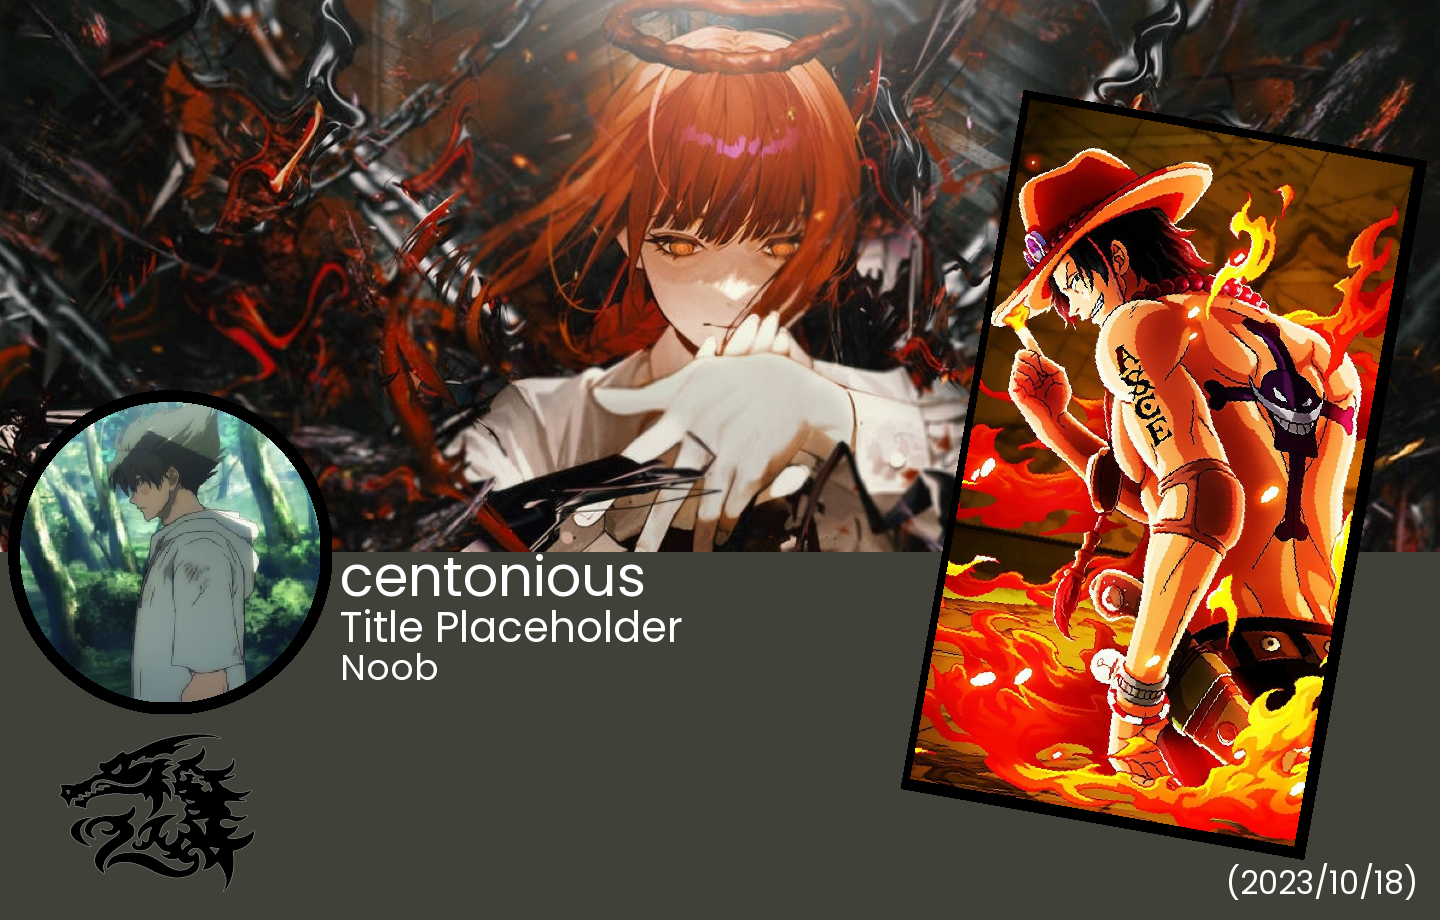
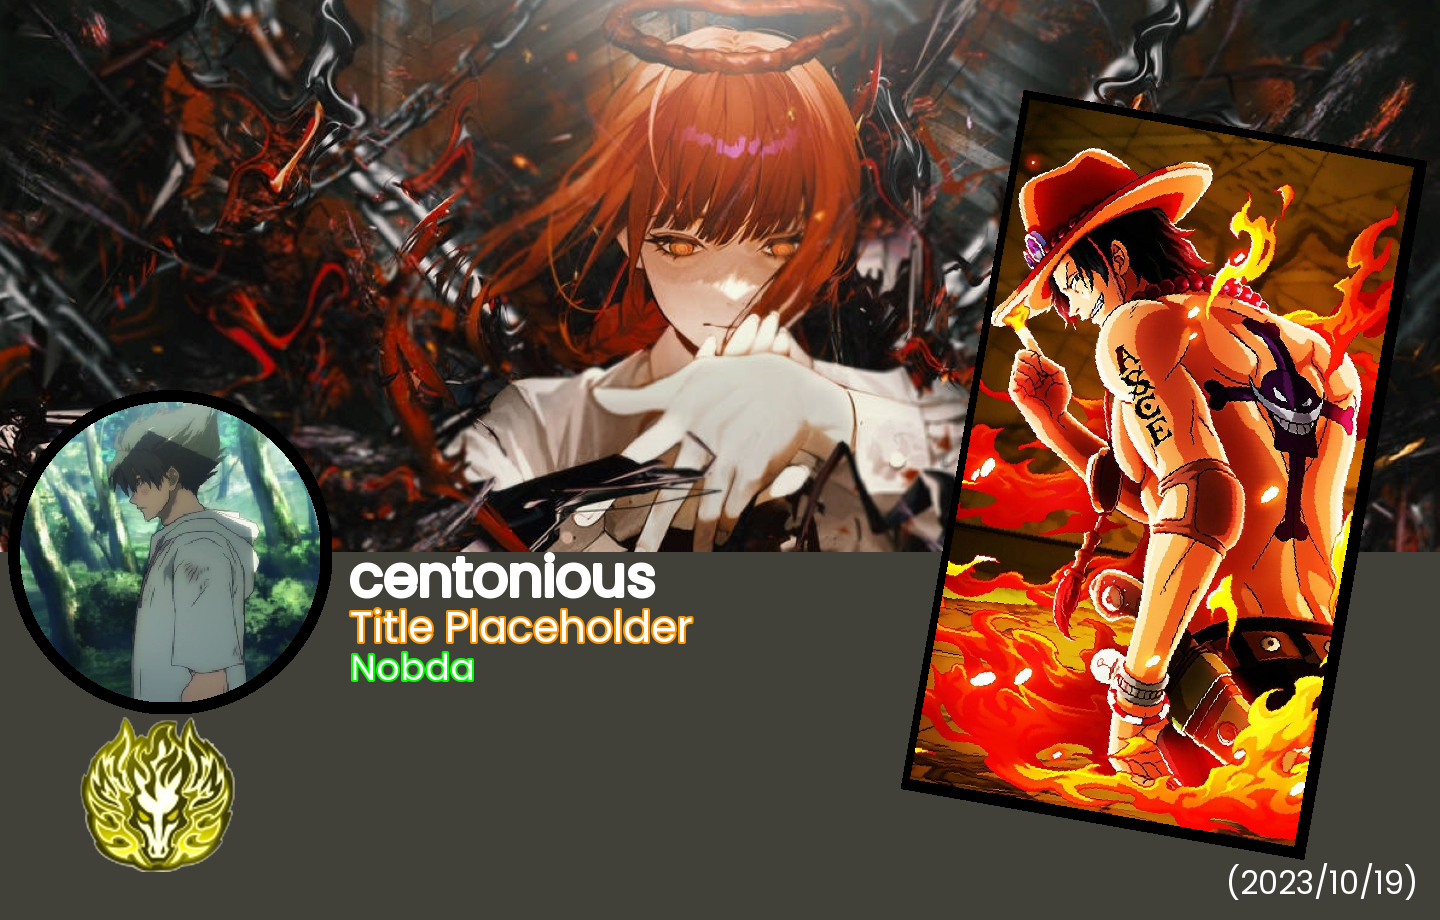
indianEFFECTfortheindian :)

Changed region(s): [[0.2188, 0.6087, 0.5, 0.7609], [0.0312, 0.7609, 0.1875, 0.9739]]

diff --git a/Convictions/profile.py b/Convictions/profile.py
@@ -55,8 +55,19 @@ def create_profile_image(avatar_url, username, title, rank, default_background_p
 
   dragon_shadow_path = 'Assets/dragon_shadow.png'
   dragon_shadow = Image.open(dragon_shadow_path)
-  dragon_shadow = dragon_shadow.resize((avatar_size[0], 200))
-  dragon_shadow_x = avatar_x
+  # Make the dragon shadow image smaller
+  new_height = int(200 * 0.8)  # Reduce the height by 20%
+  new_width = int(dragon_shadow.width * (new_height / dragon_shadow.height))
+  dragon_shadow = dragon_shadow.resize((new_width, new_height))
+ 
+
+  
+
+
+  
+  # Shift the dragon shadow image slightly to the right
+  dragon_shadow_x = avatar_x + int(avatar_size[0] * 0.20)  # Adjusted for a small right shift
+
   dragon_shadow_y = avatar_y + avatar_size[1] + 10
   profile_image.paste(dragon_shadow, (dragon_shadow_x, dragon_shadow_y), dragon_shadow)
 
@@ -89,12 +100,34 @@ def create_profile_image(avatar_url, username, title, rank, default_background_p
   text_color = (255, 255, 255)
   outline_color = (0, 0, 0)
 
-  username_x = avatar_x + avatar_size[0] + 20
+  username_x = avatar_x + avatar_size[0] + 30  # Adjusted for spacing
   username_y = avatar_y + 135
+  title_x = username_x  # Same x-coordinate for title
+  title_y = username_y + 60
+  rank_x = username_x  # Same x-coordinate for rank
+  rank_y = title_y + 45
+  
+  # Styling for Username
+  username_x = avatar_x + avatar_size[0] + 30
+  username_y = avatar_y + 135
+  username_font_color = (255, 255, 255)
+  username_outline_color = (0, 0, 0)
+
+  # Styling for Title
   title_x = username_x
   title_y = username_y + 60
+  title_font_color = (255, 150, 0)  # Orange text color
+  title_outline_color = (0, 0, 0)
+
+  # Styling for Rank
   rank_x = username_x
   rank_y = title_y + 45
+  rank_font_color = (0, 255, 0)  # Green text color
+  rank_outline_color = (0, 0, 0)
+
+  draw.text((username_x, username_y), username, fill=username_font_color, font=username_font, stroke_width=2, outline=username_outline_color)
+  draw.text((title_x, title_y), title, fill=title_font_color, font=title_font, stroke_width=2, outline=title_outline_color)
+  draw.text((rank_x, rank_y), rank, fill=rank_font_color, font=rank_font, stroke_width=2, outline=rank_outline_color)
 
   draw.text((username_x, username_y), username, fill=text_color, font=username_font)
   draw.text((title_x, title_y), title, fill=text_color, font=title_font)
